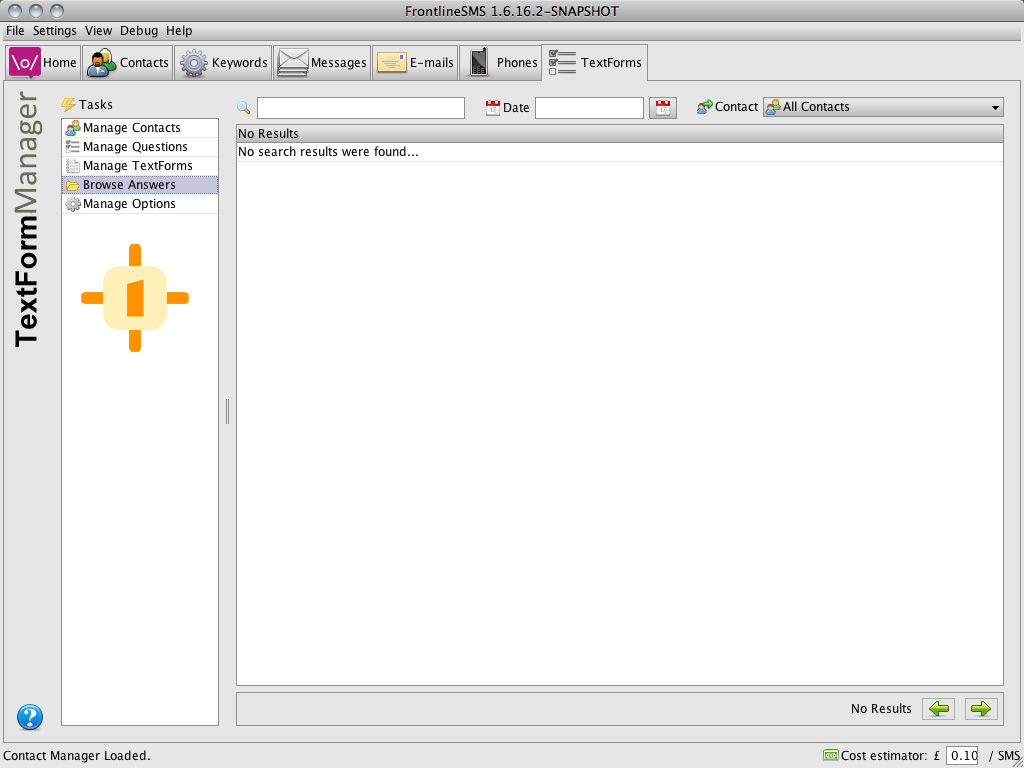
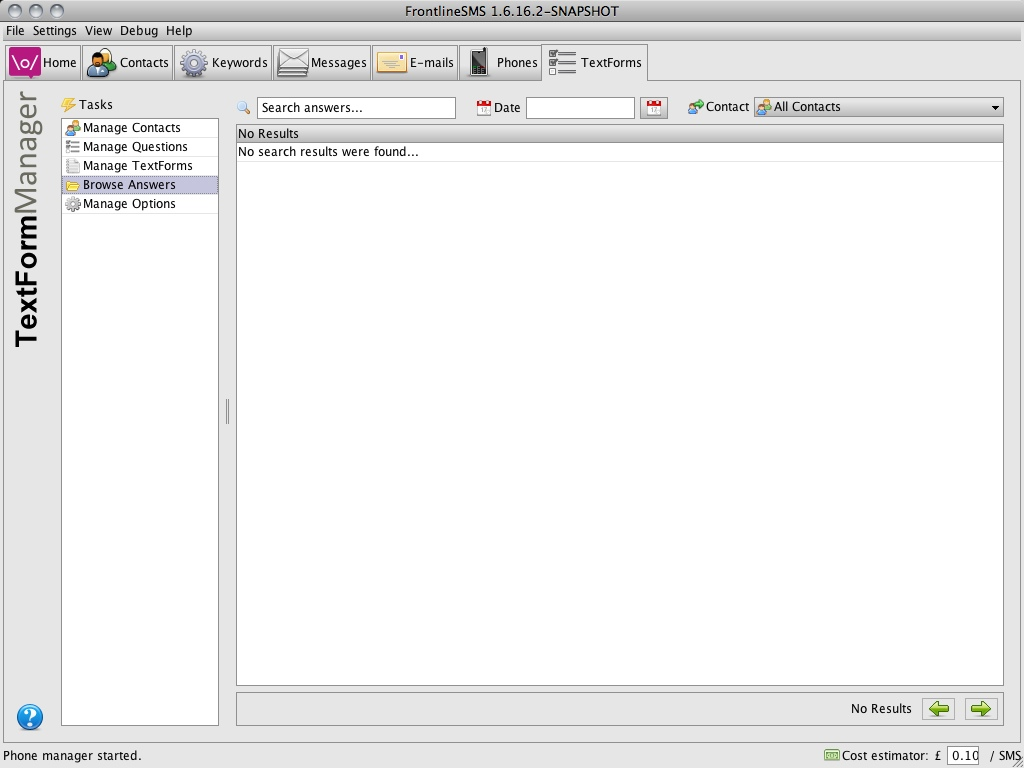
Updated Help document

diff --git a/help/textforms.htm b/help/textforms.htm
@@ -3,7 +3,7 @@
 		<meta http-equiv="Content-Language" content="en-gb">
 		<meta http-equiv="Content-Type" content="text/html; charset=windows-1252">
 		<link href="frontlinehelp.css" rel="stylesheet" type="text/css">
-		<title>FrontlineSMS Help :: Event Mapping</title>
+		<title>FrontlineSMS Help :: TextForms</title>
 	</head>
 	<body>
 		<div class="header">
@@ -11,9 +11,31 @@
 		</div>
 		<div class="content">
 			<h1>TextForms</h1>
-			<h4>The TextForms allows complex data gathering and simple type validation via SMS through a familiar question and answer format.</h4>
-			
+			<h4>The TextForms plugin allows complex data gathering and simple type validation via SMS.</h4>
 			<img border="0" src="img/textforms-questions.jpg" vspace="5">
+			
+			<h2>What can I do with the TextForms?</h2>
+			<h3>
+				TextForms provides a powerful mechanism to gather data via SMS. 
+				Data can be gathered as an individual question or as a series of questions called a TextForm.
+				Each question has an associated keyword, which triggers a question handler if an incoming SMS message starts with that keyword.
+				<br/>
+				<br/>
+				For example, the question with name <i>Total Beds</i>, keyword <i>beds</i>, type <i>Integer</i> and phrase <i>The total number of hospital beds?</i>
+				will allow the plugin to receive the SMS message <i>"beds 46"</i>, storing the answer <i>46</i>.
+				<br/>
+				<br/>
+				If the plugin simply receives the keyword <i>beds</i>, it is assumed the user is requesting information about that question, so will receive a message like 
+				<i>Total Beds (Integer) The total number of hospital beds?</i>, which they can then simply reply with their answer (for example <i>ABC</i>).
+				<br/>
+				<br/>
+				If the user submits an invalid answer (for example <i>ABC</i>) they will receive back a response message 
+				<i>Invalid answer for Total Beds (expected Integer)</i> notifying them they entered an invalid response.
+				<br/>
+				<br/>
+				You can also organize a series of questions into a TextForm, which will automatically send the user the next question after receiving a valid answer.
+			</h3>
+			
 			<h2>Activating the TextForms plugin</h2>
 			<h3>
 				When FrontlineSMS is installed for the first time, the TextForms module is initially hidden from view. 
@@ -32,7 +54,7 @@
 			</h3>
 			<img border="0" src="img/textforms-contacts.jpg" vspace="5">
 			<h3>
-				Note, you can filter the contact list by entering a search term into the Search contacts... textbox.
+				Note, you can filter the contact list by entering a search term into the <i>Search contacts...</i> textbox.
 			</h3>
 			
 			<h2>Add / Edit Contact</h2>
@@ -58,7 +80,7 @@
 			</h3>
 			<img border="0" src="img/textforms-questions.jpg" vspace="5">
 			<h3>
-				Note, you can filter the question list by entering a search term into the Search questions... textbox.
+				Note, you can filter the question list by entering a search term into the <i>Search questions...</i> textbox.
 			</h3>
 			
 			<h2>Add / Edit Question</h2>
@@ -83,7 +105,7 @@
 			</h3>
 			<img border="0" src="img/textforms-textforms.jpg" vspace="5">
 			<h3>
-				Note, you can filter the textform list by entering a search term into the Search textforms... textbox.
+				Note, you can filter the textform list by entering a search term into the <i>Search textforms...</i> textbox.
 			</h3>
 			
 			<h2>Add / Edit TextForm</h2>

diff --git a/src/main/java/net/frontlinesms/plugins/textforms/TextFormsListener.java b/src/main/java/net/frontlinesms/plugins/textforms/TextFormsListener.java
@@ -10,6 +10,7 @@ import org.springframework.context.ApplicationContext;
 import net.frontlinesms.FrontlineSMS;
 import net.frontlinesms.data.DuplicateKeyException;
 import net.frontlinesms.data.domain.FrontlineMessage;
+import net.frontlinesms.data.domain.FrontlineMessage.Status;
 import net.frontlinesms.data.domain.FrontlineMessage.Type;
 import net.frontlinesms.data.events.EntitySavedNotification;
 import net.frontlinesms.events.EventObserver;
@@ -75,7 +76,6 @@ public class TextFormsListener implements EventObserver {
 	public void notify(FrontlineEventNotification notification) {
 		FrontlineMessage message = getFrontlineMessage(notification);
 		if (message != null) {
-			LOG.debug("notify: %s", notification.getClass().getSimpleName());
 			//first, remove all callbacks that have timed out
 			List<CallbackInfo> expiredCallbacks = getExpiredCallbacks();
 			if (expiredCallbacks.size() > 0) {
@@ -94,9 +94,16 @@ public class TextFormsListener implements EventObserver {
 			
 			//see if there is a handler that wants to handle the message
 			MessageHandler handler = getMessageHandler(message);
+			if (handler != null) {
+				LOG.debug("%s %s (%s) %s", handler.getClass().getSimpleName(), message.getType(), message.getSenderMsisdn(), message.getTextContent());
+			}
 			
 			//now, see if there is a callback out on that message
 			CallbackHandler<?> callbackHandler = getCallbackHandler(message);
+			if (callbackHandler != null) {
+				LOG.debug("%s %s (%s) %s", callbackHandler.getClass().getSimpleName(), message.getType(), message.getSenderMsisdn(), message.getTextContent());
+			}
+			
 			if (handler != null && callbackHandler != null && callbackHandler.shouldHandleCallbackMessage(message) == false) {
 				//if there is a keyword in the message and the callback handler doesn't seem
 				//to know what to do with it, give the message to the keyword handler as opposed
@@ -120,13 +127,13 @@ public class TextFormsListener implements EventObserver {
 							LOG.error("Next Question: %s", question.getName());
 							registerTextForm(message.getSenderMsisdn(), textformResponse, question);
 							sendReply(message.getSenderMsisdn(), question.toString(true), false);	
-							LOG.out("%s", question.toString(true));
+							LOG.debug("%s", question.toString(true));
 						}
 						else {
 							LOG.debug("TextForm '%s' Completed!", textformResponse.getTextFormName());
 							sendReply(message.getSenderMsisdn(), TextFormsMessages.getSurveryCompleted(textformResponse.getTextFormName()), false);
 							textforms.remove(message.getSenderMsisdn());
-							LOG.out("%s", TextFormsMessages.getSurveryCompleted(textformResponse.getTextFormName()));
+							LOG.debug("%s", TextFormsMessages.getSurveryCompleted(textformResponse.getTextFormName()));
 							try {
 								textformResponseDao.updateTextForm(textformResponse);
 							} 
@@ -135,6 +142,9 @@ public class TextFormsListener implements EventObserver {
 							}
 						}
 					}
+				}
+				else if(handler.handleMessage(message)) {
+					LOG.error("%s Handler Successful", handler.getClass().getSimpleName());
 				}
 			}
 			else if (handler != null) {
@@ -231,7 +241,7 @@ public class TextFormsListener implements EventObserver {
 			EntitySavedNotification<?> entitySavedNotification = (EntitySavedNotification<?>)notification;
 			if (entitySavedNotification.getDatabaseEntity() instanceof FrontlineMessage) {
 				FrontlineMessage message = (FrontlineMessage)entitySavedNotification.getDatabaseEntity();
-				if (message.getType() == Type.RECEIVED) {
+				if (message.getType() == Type.RECEIVED && message.getStatus() == Status.RECEIVED) {
 					return message;
 				}
 			}

diff --git a/src/main/java/net/frontlinesms/plugins/textforms/TextFormsDebug.java b/src/main/java/net/frontlinesms/plugins/textforms/TextFormsDebug.java
@@ -161,15 +161,15 @@ public class TextFormsDebug {
 											"invalid abc123", //invalid response
 											"invalid" //invalid keyword
 											}) {
-			createAnswer(this.getDateReceived(), this.getAuthor(), message);
+			createMessage(this.getDateReceived(), this.getAuthor(), message);
 		}
 	}
 	
-	public void createAnswer(long dateReceived, String senderMsisdn, String message) {
+	public void createMessage(long dateReceived, String senderMsisdn, String message) {
 		try {
 			FrontlineMessage frontlineMessage = FrontlineMessage.createIncomingMessage(dateReceived, senderMsisdn, null, message);
 			this.messageDao.saveMessage(frontlineMessage);
-			LOG.debug("Answer Created [%s, %s, %s]", dateReceived, senderMsisdn, message);
+			LOG.debug("Message Saved [%s, %s, %s]", dateReceived, senderMsisdn, message);
 		}
 		catch (Exception ex) {
 			LOG.error("Exception: %s", ex);
@@ -251,7 +251,7 @@ public class TextFormsDebug {
 	            	break;
 	            }
 	            else {
-	            	createAnswer(Calendar.getInstance().getTimeInMillis(), getAuthor(), message);
+	            	createMessage(Calendar.getInstance().getTimeInMillis(), getAuthor(), message);
 	            }
 	        }
 	        LOG.debug("...startDebugTerminal");
@@ -259,13 +259,11 @@ public class TextFormsDebug {
 	}
 	
 	private String getAuthor() {
-		List<Contact> contacts = this.contactDao.getAllContacts();
-		for(int index = contacts.size() - 1; index >= 0; index--){
-			Contact contact = contacts.get(index);
-			if (contact.getPhoneNumber() != null) {
+		for(Contact contact : this.contactDao.getAllContacts()) {
+			if (contact.getPhoneNumber() != null && contact.getPhoneNumber().equalsIgnoreCase("000") == false) {
 				return contact.getPhoneNumber();
 			}
-			else if (contact.getOtherPhoneNumber() != null) {
+			else if (contact.getOtherPhoneNumber() != null && contact.getOtherPhoneNumber().equalsIgnoreCase("000") == false) {
 				return contact.getOtherPhoneNumber();
 			}
 		}
@@ -273,12 +271,18 @@ public class TextFormsDebug {
 	}
 	
 	private String getOrganizationId() {
-		List<Contact> contacts = this.contactDao.getAllContacts();
-		for(int index = contacts.size() - 1; index >= 0; index--){
-			Contact contact = contacts.get(index);
-			OrganizationDetails organizationDetails = contact.getDetails(OrganizationDetails.class);
-			if (organizationDetails != null) {
-				return organizationDetails.getOrganizationId();
+		for(Contact contact : this.contactDao.getAllContacts()) {
+			if (contact.getPhoneNumber() != null && contact.getPhoneNumber().equalsIgnoreCase("000") == false) {
+				OrganizationDetails organizationDetails = contact.getDetails(OrganizationDetails.class);
+				if (organizationDetails != null) {
+					return organizationDetails.getOrganizationId();
+				}
+			}
+			else if (contact.getOtherPhoneNumber() != null && contact.getOtherPhoneNumber().equalsIgnoreCase("000") == false) {
+				OrganizationDetails organizationDetails = contact.getDetails(OrganizationDetails.class);
+				if (organizationDetails != null) {
+					return organizationDetails.getOrganizationId();
+				}
 			}
 		}
 		return null;

diff --git a/src/main/java/net/frontlinesms/plugins/textforms/TextFormsMessages.java b/src/main/java/net/frontlinesms/plugins/textforms/TextFormsMessages.java
@@ -25,8 +25,9 @@ public final class TextFormsMessages {
 		return String.format("%s : %s", getI18NString("plugins.textforms.handler.invalid.keyword"), arrayToString(keywords));
 	}
 	
-	public static String getHandlerInvalidAnswer(String questionTypeLabel, String response) {
-		return String.format("%s (%s) : %s", getI18NString("plugins.textforms.handler.invalid.response"), questionTypeLabel, response);
+	public static String getHandlerInvalidAnswer(String questionName, String questionTypeLabel) {
+		return String.format("%s %s (%s %s)", getI18NString("plugins.textforms.handler.invalid.answer"), questionName, 
+											 getI18NString("plugins.textforms.handler.expected.type"), questionTypeLabel);
 	}
 	
 	public static String getHandlerInvalidCallback() {
@@ -46,15 +47,19 @@ public final class TextFormsMessages {
 	}
 	
 	public static String getHandlerErrorAnswer(String response) {
-		return String.format("%s : %s", getI18NString("plugins.textforms.handler.error.response"), response);
+		return String.format("%s : %s", getI18NString("plugins.textforms.handler.error.answer"), response);
 	}
 	
 	public static String getHandlerErrorSaveAnswer() {
-		return getI18NString("plugins.textforms.handler.error.save.response");
+		return getI18NString("plugins.textforms.handler.error.save.answer");
 	}
 	
 	public static String getHandlerErrorUploadAnswer() {
-		return getI18NString("plugins.textforms.handler.error.upload.response");
+		return getI18NString("plugins.textforms.handler.error.upload.answer");
+	}
+	
+	public static String getHandlerErrorSaveTextForm() {
+		return getI18NString("plugins.textforms.handler.error.save.textform");
 	}
 	
 	public static String getMessageAllContacts() {
@@ -90,11 +95,11 @@ public final class TextFormsMessages {
 	}
 	
 	public static String getMessageSearchAnswers() {
-		return getI18NString("plugins.textforms.search.responses");
+		return getI18NString("plugins.textforms.search.answers");
 	}
 	
 	public static String getMessageSearchContacts() {
-		return getI18NString("plugins.textforms.search.people");
+		return getI18NString("plugins.textforms.search.contacts");
 	}
 	
 	public static String getMessageSearchQuestions() {

diff --git a/src/main/java/net/frontlinesms/plugins/textforms/handler/questions/CallbackHandler.java b/src/main/java/net/frontlinesms/plugins/textforms/handler/questions/CallbackHandler.java
@@ -66,7 +66,6 @@ public abstract class CallbackHandler<Q extends Question> extends QuestionHandle
 			Question question = this.questionDao.getQuestionForKeyword(words[0]);
 			if (question != null) {
 				sendReply(message.getSenderMsisdn(), question.toString(true), false);
-				LOG.out("%s", question.toString(true));
 				LOG.debug("Register Callback for '%s'", message.getTextContent());
 				TextFormsListener.registerCallback(message.getSenderMsisdn(), this);
 				this.callbacks.put(message.getSenderMsisdn(), this.questionDao.getQuestionForKeyword(message.getTextContent()));
@@ -121,7 +120,7 @@ public abstract class CallbackHandler<Q extends Question> extends QuestionHandle
 		else {
 			Question question = questionDao.getQuestionForKeyword(words[0]);
 			if (question != null) {
-				sendReply(message.getSenderMsisdn(), TextFormsMessages.getHandlerInvalidAnswer(question.getTypeLabel(), message.getTextContent()), true);
+				sendReply(message.getSenderMsisdn(), TextFormsMessages.getHandlerInvalidAnswer(question.getName(), question.getTypeLabel()), true);
 			}
 			else {
 				sendReply(message.getSenderMsisdn(), TextFormsMessages.getHandlerErrorAnswer(message.getTextContent()), true);
@@ -180,7 +179,7 @@ public abstract class CallbackHandler<Q extends Question> extends QuestionHandle
 		else {
 			Question question = this.callbacks.get(message.getSenderMsisdn());
 			if (question != null) {
-				sendReply(message.getSenderMsisdn(), TextFormsMessages.getHandlerInvalidAnswer(question.getTypeLabel(), message.getTextContent()), true);
+				sendReply(message.getSenderMsisdn(), TextFormsMessages.getHandlerInvalidAnswer(question.getName(), question.getTypeLabel()), true);
 			}
 			else {
 				sendReply(message.getSenderMsisdn(), TextFormsMessages.getHandlerErrorAnswer(message.getTextContent()), true);

diff --git a/src/main/java/net/frontlinesms/plugins/textforms/data/domain/TextForm.java b/src/main/java/net/frontlinesms/plugins/textforms/data/domain/TextForm.java
@@ -3,6 +3,7 @@ package net.frontlinesms.plugins.textforms.data.domain;
 import java.util.ArrayList;
 import java.util.List;
 
+import javax.persistence.CascadeType;
 import javax.persistence.Column;
 import javax.persistence.Entity;
 import javax.persistence.FetchType;
@@ -11,10 +12,14 @@ import javax.persistence.GenerationType;
 import javax.persistence.Id;
 import javax.persistence.JoinColumn;
 import javax.persistence.JoinTable;
+import javax.persistence.ManyToMany;
 
+import org.hibernate.annotations.Cascade;
 import org.hibernate.annotations.CollectionOfElements;
 import org.hibernate.annotations.Fetch;
 import org.hibernate.annotations.FetchMode;
+import org.hibernate.annotations.LazyCollection;
+import org.hibernate.annotations.LazyCollectionOption;
 
 import net.frontlinesms.plugins.textforms.data.domain.questions.Question;
 
@@ -81,7 +86,7 @@ public class TextForm {
 	@CollectionOfElements(targetElement=Question.class, fetch=FetchType.EAGER)
 	@JoinTable(name="textform_questions", joinColumns=@JoinColumn(name="textform_id"))
 	@Column(name="questions")
-	@Fetch (FetchMode.SELECT)
+	@Fetch(FetchMode.SELECT)
 	private List<Question> questions;
 	
 	public List<Question> getQuestions() {

diff --git a/src/main/java/net/frontlinesms/plugins/textforms/ui/ManageTextFormsDialogHandler.java b/src/main/java/net/frontlinesms/plugins/textforms/ui/ManageTextFormsDialogHandler.java
@@ -136,15 +136,16 @@ public class ManageTextFormsDialogHandler extends ExtendedThinlet implements Thi
 			this.ui.alert(TextFormsMessages.getTextFormQuestionsRequired());
 		}
 		else if (textform == null) {
-			textform = new TextForm(textformName, textformKeyword, questions);
+			TextForm newTextform = new TextForm(textformName, textformKeyword, questions);
 			try {
-				this.textformDao.saveTextForm(textform);
+				this.textformDao.saveTextForm(newTextform);
+				this.ui.remove(this.mainDialog);
+				this.callback.refreshTextForm(newTextform);
 			} 
 			catch (DuplicateKeyException e) {
 				e.printStackTrace();
+				this.ui.alert(TextFormsMessages.getHandlerErrorSaveTextForm());
 			}
-			this.ui.remove(this.mainDialog);
-			this.callback.refreshTextForm(textform);
 		}
 		else {
 			textform.setName(textformName);

diff --git a/src/main/java/net/frontlinesms/plugins/textforms/handler/questions/QuestionHandler.java b/src/main/java/net/frontlinesms/plugins/textforms/handler/questions/QuestionHandler.java
@@ -135,7 +135,7 @@ public abstract class QuestionHandler<Q extends Question> extends MessageHandler
 		else {
 			Question question = this.questionDao.getQuestionForKeyword(words[0]);
 			if (question != null) {
-				sendReply(message.getSenderMsisdn(), TextFormsMessages.getHandlerInvalidAnswer(question.getTypeLabel(), message.getTextContent()), true);
+				sendReply(message.getSenderMsisdn(), TextFormsMessages.getHandlerInvalidAnswer(question.getName(), question.getTypeLabel()), true);
 			}
 			else {
 				sendReply(message.getSenderMsisdn(), TextFormsMessages.getHandlerErrorAnswer(message.getTextContent()), true);

diff --git a/src/main/java/net/frontlinesms/plugins/textforms/ui/SendTextFormDialogHandler.java b/src/main/java/net/frontlinesms/plugins/textforms/ui/SendTextFormDialogHandler.java
@@ -86,7 +86,7 @@ public class SendTextFormDialogHandler extends ExtendedThinlet implements Thinle
 				if (question != null) {
 					TextFormsListener.registerTextForm(contact.getPhoneNumber(), textformResponse, question);
 					frontline.sendTextMessage(contact.getPhoneNumber(), question.toString(true));
-					LOG.out("%s", question.toString(true));
+					LOG.debug("%s", question.toString(true));
 				}
 				else {
 					LOG.error("Questions is NULL");

diff --git a/src/main/java/net/frontlinesms/plugins/textforms/handler/TextFormHandler.java b/src/main/java/net/frontlinesms/plugins/textforms/handler/TextFormHandler.java
@@ -56,7 +56,7 @@ public class TextFormHandler extends MessageHandler {
 					if (question != null) {
 						TextFormsListener.registerTextForm(message.getSenderMsisdn(), textformResponse, question);
 						sendReply(message.getSenderMsisdn(), question.toString(true), false);
-						LOG.out("%s", question.toString(true));
+						LOG.debug("%s", question.toString(true));
 						return true;	
 					}
 					else {
